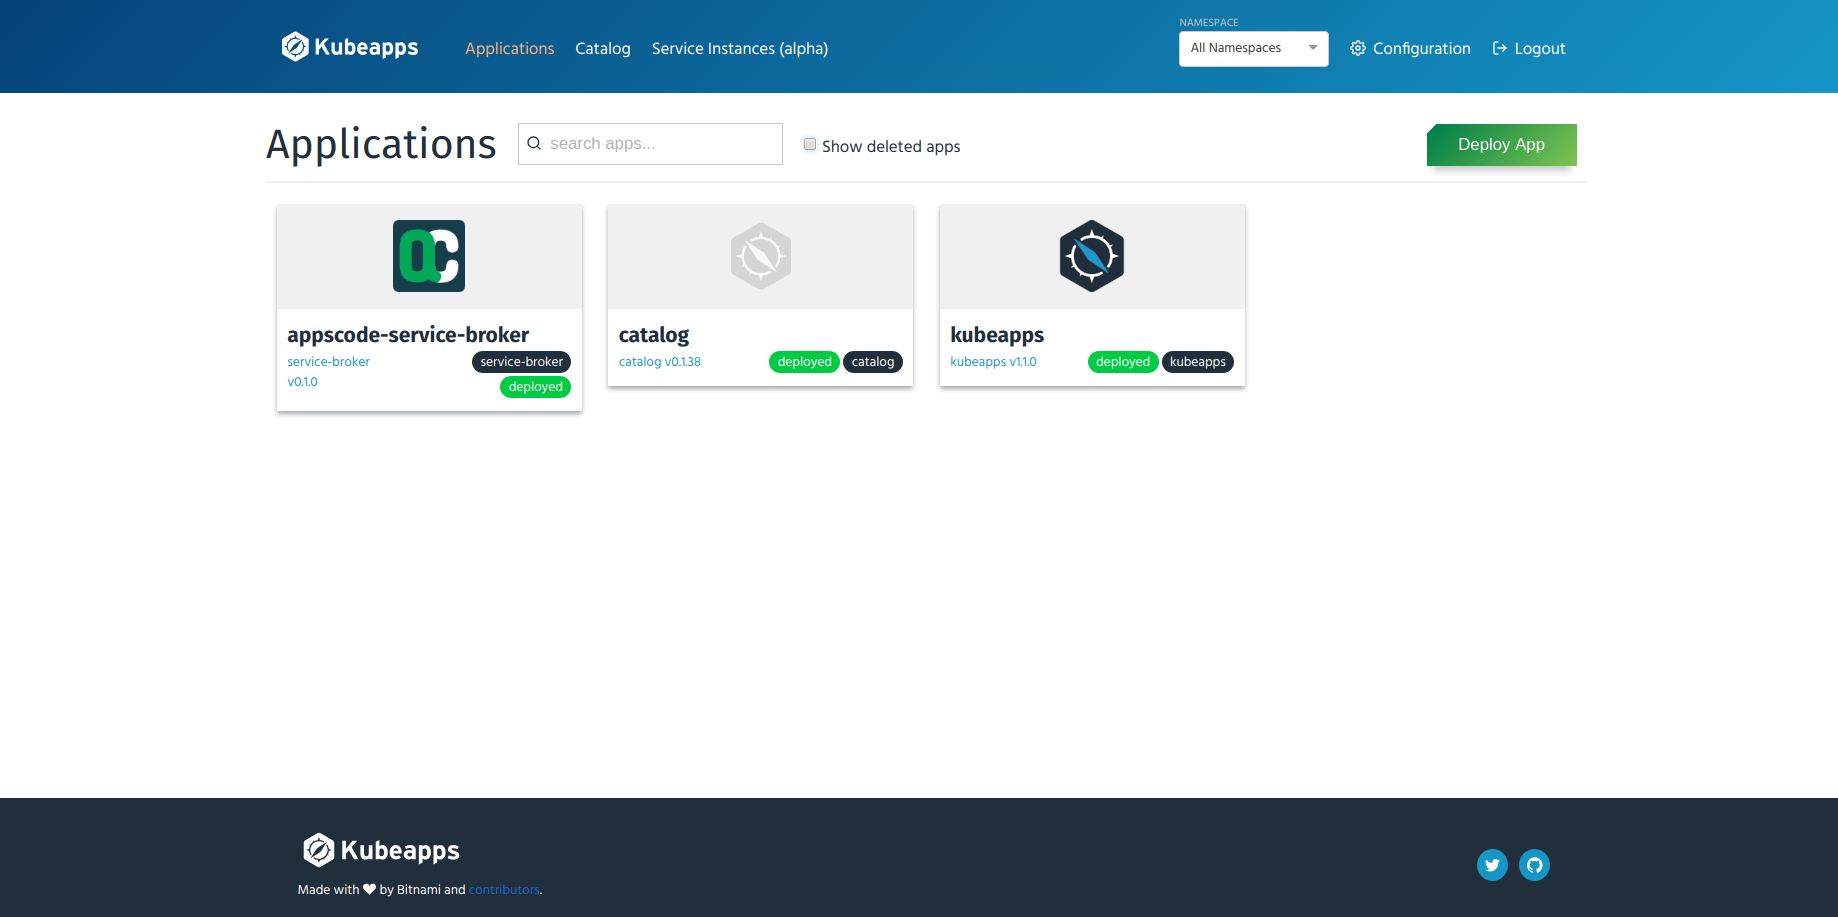
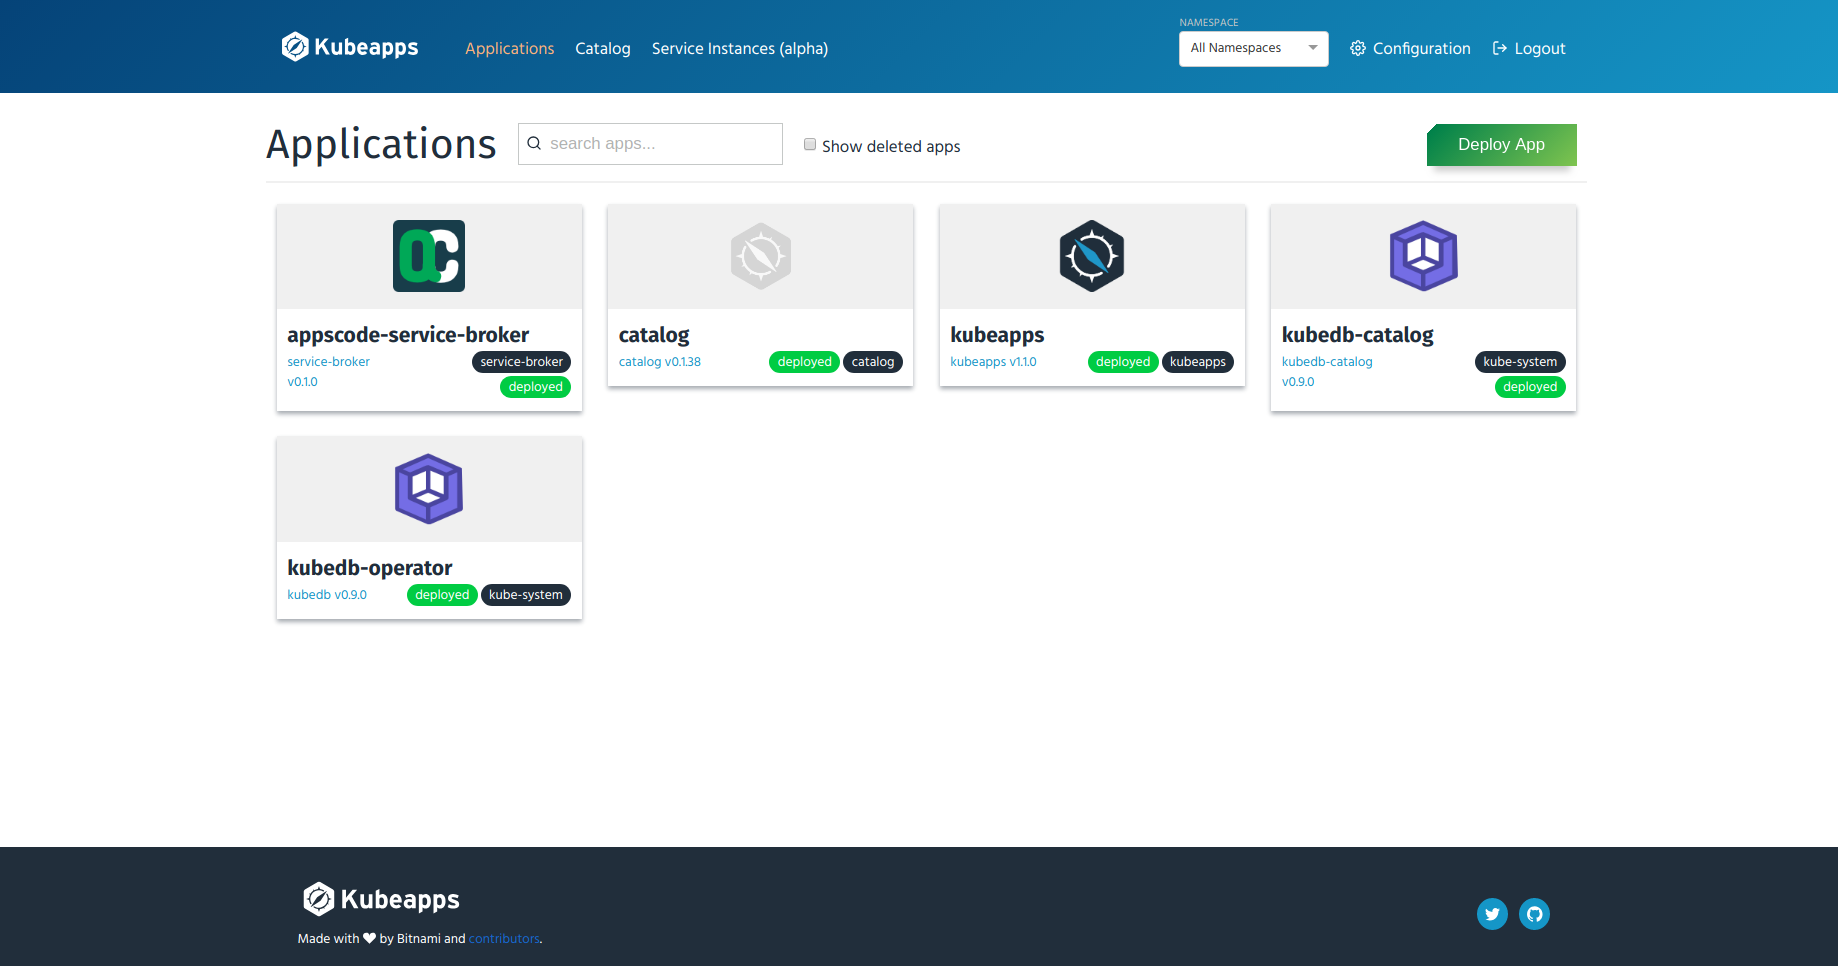
Update kubeapps guide

diff --git a/docs/guides/kubeapps.md b/docs/guides/kubeapps.md
@@ -2,7 +2,7 @@
 
 Kubeapps is a web-based UI for deploying and managing applications in Kubernetes clusters. Using Kubeapps you can browse and provision external services from the [Service Catalog](https://github.com/kubernetes-incubator/service-catalog) and available Service Brokers. Please see [Kubeapps](https://github.com/kubeapps/kubeapps) for more information about Kubeapps.
 
-Say you have AppsCode Service Broker and Service Catalog installed in our cluster. Then you can provision, bind, unbind, deprovision instances for the services offered by AppsCode Service Broker.
+Here we have shown how you can browse and manage services provided by Kubedb in cluster through the Kubeapps Dashboard.
 
 ## Prerequisites
 
@@ -29,7 +29,7 @@ Now you are ready to go forward. After being ready the prerequisites in your clu
 
 ![ref](/docs/images/kubeapps-dashboard.png)
 
-If you select `All Namespaces` from the drop-down menu of namespaces, you will see `kubeapps`, `appscode-service-broker`, `catalog` in the list.
+If you select `All Namespaces` from the drop-down menu of namespaces, you will see `kubeapps`, `catalog`, `kubedb-operator`, `appscode-service-broker` in the list.
 
 ![ref](/docs/images/apps-in-all-ns.png)
 
@@ -99,15 +99,14 @@ In this section we are going to bind the instance created in the above provision
 
 - Click "Continue"
 - Another pop-up will ask you to provide the parameters in `json` for binding the instance. Currently AppsCode Service Broker does not require any parameter for binding. So just keep it empty.
-
-  ![ref](/docs/images/enter-binding-parametes.png)
-
 - Click "Submit"
 - After sometime refresh the page and you will find the status of the binding named `postgresqldb` as **`InjectedBindResult`** and
 
   ![ref](/docs/images/binding-successful.png)
 
 - Click on the link labeled as "show" and the secret data will be appeared in a pop-up.
+
+  ![ref](/docs/images/show-binding-secret-data.png)
 
 #### Unbinding
 
@@ -119,7 +118,7 @@ To deprovision the previously created instance named `postgresqldb` for plan **`
 
 ### Manage `postgresql` Plan
 
-Using this plan user can provide a custom specificatation for [Postgres Spec](https://kubedb.com/docs/0.9.0/concepts/databases/postgres/#postgres-spec).
+Using this plan you can provide a custom specificatation for [Postgres Spec](https://kubedb.com/docs/0.9.0/concepts/databases/postgres/#postgres-spec).
 
 #### Provision
 
@@ -136,7 +135,6 @@ This guide will show you how to provision `postgresql` plan for PostgreSQL datab
   ```json
   {
     "metadata": {
-      "name": "postgresqldb",
       "labels": {
         "app": "my-postgres"
       }
@@ -164,7 +162,7 @@ This guide will show you how to provision `postgresql` plan for PostgreSQL datab
 - Click "Submit"
 - After some time refresh the page. You will see **`ProvisionedSuccessfully`** as the reason in that page like following:
 
-  ![ref](/docs/images/instance-for-demo-postgresql.png)
+  ![ref](/docs/images/instance-for-custom-postgresql.png)
 
 - Go to the "Service Instances" page by clicking the "Service Instances (alpha)" menu from the menubar and select the `All Namespaces` or `default` from the drop-dwon for namespaces and a list of current service instances in the selected namespace will be shown.
 
@@ -190,6 +188,8 @@ In this section we are going to bind the instance created in the above provision
   ![ref](/docs/images/binding-successful.png)
 
 - Click on the link labeled as "show" and the secret data will be appeared in a pop-up.
+
+  ![ref](/docs/images/show-binding-secret-data-custom.png)
 
 #### Unbinding
 
